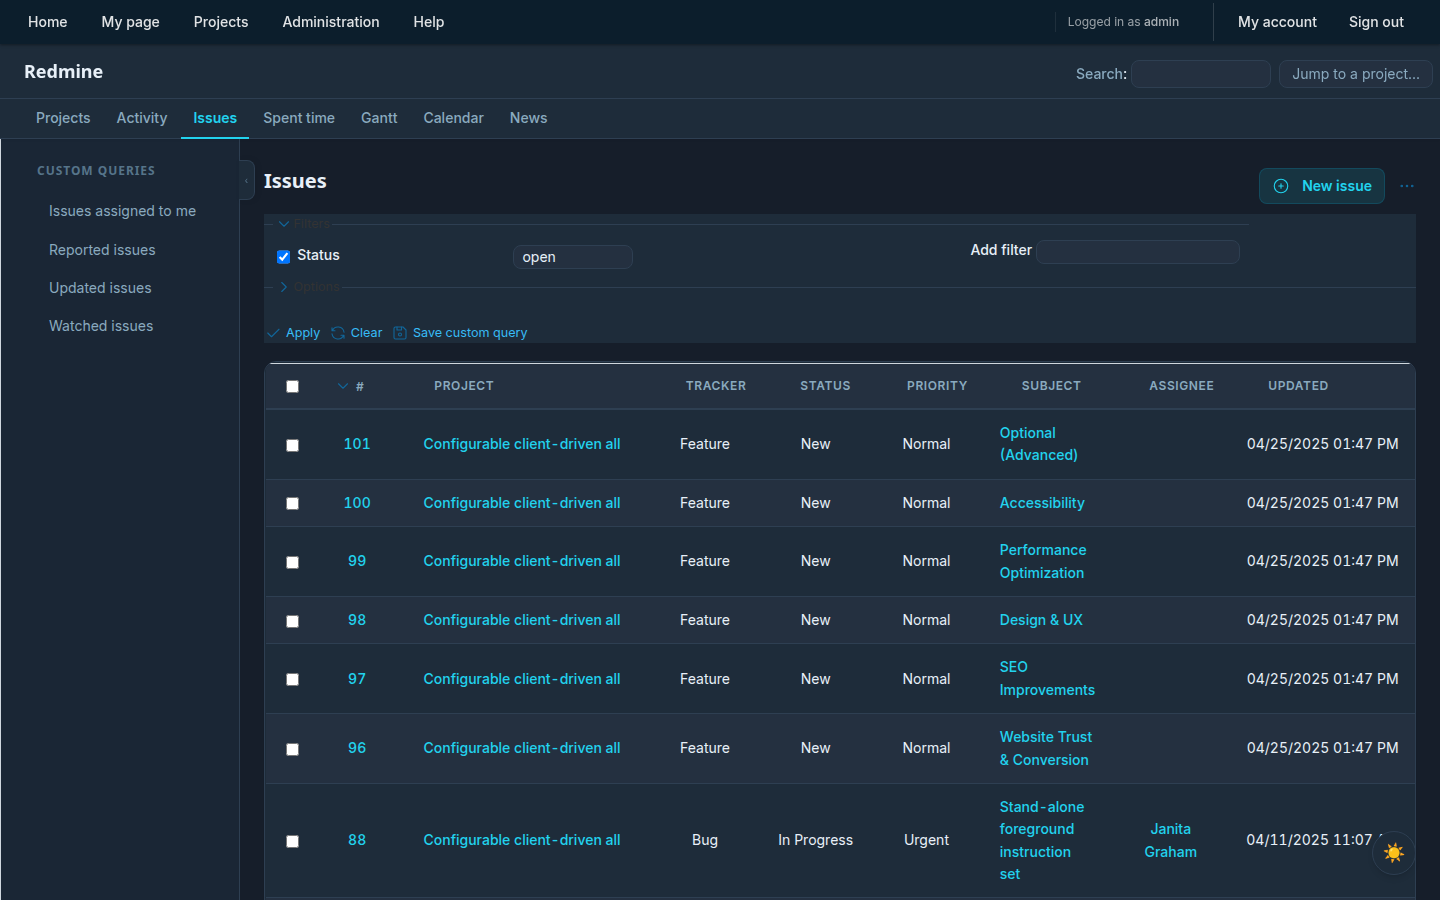
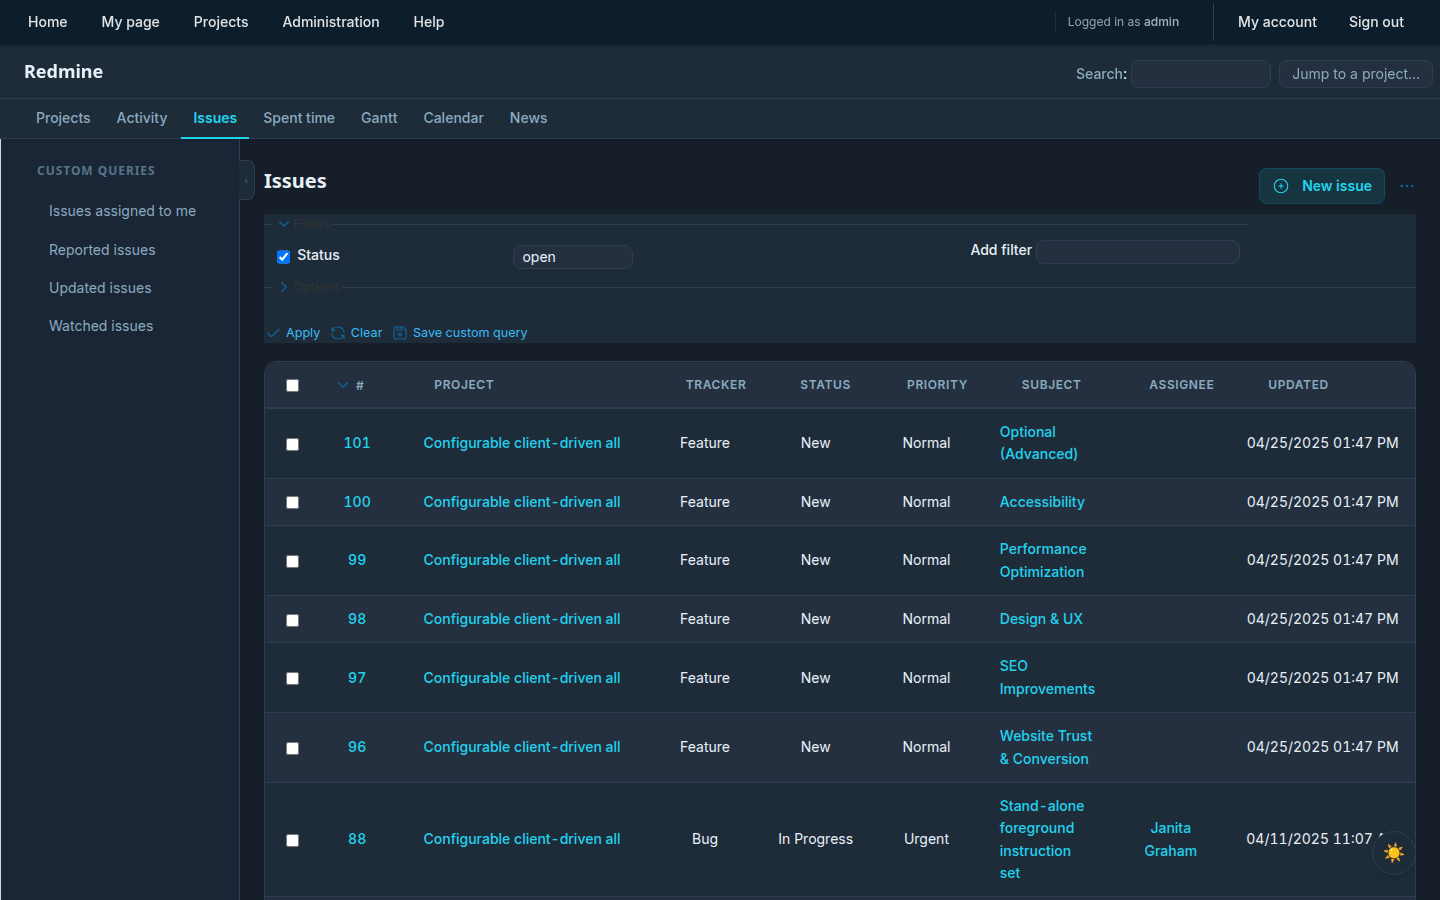
Fix double border on tables inside .autoscroll wrapper

diff --git a/stylesheets/application.css b/stylesheets/application.css
@@ -540,6 +540,10 @@ body.sidebar-collapsed #rm-sidebar-toggle {
   margin-bottom: var(--sp-4) !important;
 }
 
+/* The table inside .autoscroll must not add its own outer border —
+   the wrapper already provides one, and a second border-top creates a double line */
+.autoscroll table { border-top: none !important; border-bottom: none !important; }
+
 table.list {
   width: 100% !important;
   border-collapse: collapse !important;
